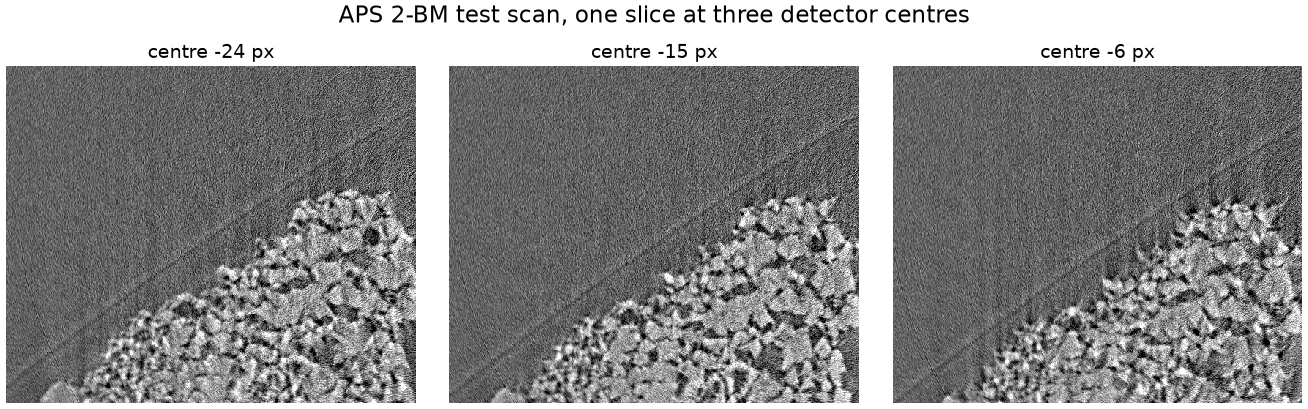
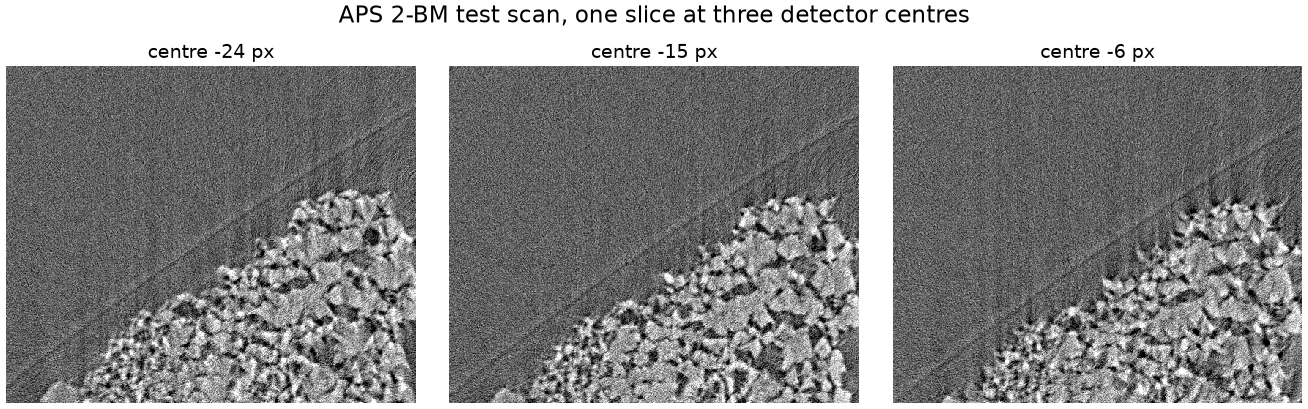
Fix CLI problems found in review: slow previews, dry-run watch dirs, misleading numbers
- inspect's slice previews and centre sweep ask for FBP, which makes an axial
  plane on its own; automatic selection chose Fourier inversion for an ordinary
  parallel scan and reconstructed the whole volume once per candidate.
- inspect checks a saved volume's --slice before writing anything, counts its
  slices and the JSON listing among the files --force guards, and writes the
  projection last, so a bad --slice leaves nothing behind.
- --dry-run no longer creates or claims --watch-dir in reconstruct and align.
- inspect prints the grid as nx x ny x nz, as reconstruct --dry-run does.
- The plan header compares device memory with free device memory and gives
  host memory separately, instead of adding them.
- --preview creates its folder; tomojax --help shows [options]; a code fence
  in docs/lab-ct.md is closed; the centre-sweep figure uses FBP like inspect.

The cli line ratchet rises by 17 for these fixes and their checks.

diff --git a/src/tomojax/cli/_previews.py b/src/tomojax/cli/_previews.py
@@ -137,9 +137,19 @@ def _picture(image: np.ndarray, label: str) -> Image.Image:
     return _images.labelled(_images.to_uint8(shown, _images.limits(shown)), label)
 
 
-def destinations(directory: Path, names: Sequence[str]) -> list[Path]:
+def destinations(
+    directory: Path,
+    wanted: Sequence[tuple[Axis, int]],
+    centres: Sequence[float],
+    *,
+    projection: bool,
+    listing: bool,
+) -> list[Path]:
     """The files a preview run will write in ``directory``."""
-    return [directory / name for name in names]
+    names = [slice_name(axis, index) for axis, index in dict.fromkeys(wanted)]
+    names += [centre_name(i, len(centres), c) for i, c in enumerate(centres)]
+    extra = {"centre_sweep.png": bool(centres), "projection.png": projection, LISTING: listing}
+    return [directory / name for name in [*names, *(n for n, written in extra.items() if written)]]
 
 
 def slice_name(axis: str, index: int) -> str:
@@ -153,21 +163,24 @@ def centre_name(ordinal: int, count: int, centre: float) -> str:
     return f"centre_{ordinal:0{width}d}_{centre:+.2f}px.png"
 
 
-def write_saved_slices(
-    path: Path, directory: Path, requests: Sequence[tuple[Axis, int]] | None, out: Previews
-) -> None:
-    """Read and write planes of a saved reconstruction (its central planes by default)."""
+def saved_requests(
+    path: Path, requests: Sequence[tuple[Axis, int]] | None
+) -> list[tuple[Axis, int]]:
+    """The planes of a saved reconstruction to show (its central planes by default), checked."""
     order, shape = _saved_shape(path)
     sizes = dict(zip(order, shape, strict=True))
-    central: list[tuple[Axis, int]] = [
-        ("z", sizes["z"] // 2),
-        ("y", sizes["y"] // 2),
-        ("x", sizes["x"] // 2),
-    ]
+    central: list[tuple[Axis, int]] = [(axis, sizes[axis] // 2) for axis in ("z", "y", "x")]
     wanted = list(requests or central)
     for axis, index in wanted:
         if not 0 <= index < sizes[axis]:
             raise ValueError(f"--slice {axis}={index} is past the volume's {sizes[axis]} planes")
+    return wanted
+
+
+def write_saved_slices(
+    path: Path, directory: Path, wanted: Sequence[tuple[Axis, int]], out: Previews
+) -> None:
+    """Read and write the ``wanted`` planes of a saved reconstruction."""
     for axis, index in dict.fromkeys(wanted):
         name = slice_name(axis, index)
         plane = saved_plane(path, axis, index)
@@ -180,16 +193,14 @@ def write_saved_slices(
 
 
 def write_scan_slices(
-    scan: tj.Scan, directory: Path, requests: Sequence[tuple[Axis, int]] | None, out: Previews
+    scan: tj.Scan, directory: Path, wanted: Sequence[tuple[Axis, int]], out: Previews
 ) -> None:
-    """Reconstruct the requested planes of a scan (its central z plane by default)."""
+    """Reconstruct the ``wanted`` planes of a scan by FBP, which makes an axial plane alone."""
     from tomojax import interactive
     from tomojax.cli._results import unit_of
     from tomojax.core.registration import registered_plane, volume_axes
 
-    central: list[tuple[Axis, int]] = [("z", scan.grid.nz // 2)]
-    wanted = list(requests or central)
-    plan = interactive.plan_planes(scan, wanted)
+    plan = interactive.plan_planes(scan, wanted, method="fbp")
     if plan.full is not None:
         progress.note("info", "slice previews: one full reconstruction makes every plane")
     resolved = plan.full or plan.plans[0]
@@ -225,7 +236,7 @@ def write_sweep(
     from tomojax.cli._results import unit_of
 
     axis, index = plane or ("z", scan.grid.nz // 2)
-    sweep = interactive.resolve_sweep(scan, axis, index, centres)
+    sweep = interactive.resolve_sweep(scan, axis, index, centres, method="fbp")
     count, du = len(centres), scan.detector.du
     unit = unit_of(scan)
     shown_unit = "scan units" if unit == "scan_length" else unit
@@ -298,6 +309,7 @@ __all__ = [
     "parse_slice",
     "projection_image",
     "saved_plane",
+    "saved_requests",
     "slice_name",
     "write_saved_slices",
     "write_scan_slices",

diff --git a/src/tomojax/cli/inspect.py b/src/tomojax/cli/inspect.py
@@ -138,6 +138,7 @@ def _make_previews(
     slices: list[tuple[pv.Axis, int]] | None,
     centres: tuple[float, ...] | None,
     force: bool,
+    listing: bool,
 ) -> pv.Previews:
     import tomojax as tj
     from tomojax._loading import is_raw_input
@@ -156,35 +157,34 @@ def _make_previews(
         )
     scan = None if frameless or raw or (saved and centres is None) else tj.load(path)
     projection = pv.projection_image(path)
-    names = [] if projection is None else ["projection.png"]
-    if scan is not None and not saved:
-        wanted = slices or [("z", scan.grid.nz // 2)]
-        names += [pv.slice_name(axis, index) for axis, index in dict.fromkeys(wanted)]
-    if scan is not None and centres is not None:
-        names += [pv.centre_name(i, len(centres), c) for i, c in enumerate(centres)]
-        names.append("centre_sweep.png")
+    if saved:
+        wanted = pv.saved_requests(path, slices)
+    else:
+        wanted = [] if scan is None else slices or [("z", scan.grid.nz // 2)]
+    has = {"projection": projection is not None, "listing": listing}
+    paths = pv.destinations(directory, wanted, centres or (), **has)
     try:
-        check_destinations({path.resolve()}, pv.destinations(directory, names), force=force)
+        check_destinations({path.resolve()}, paths, force=force)
     except FileExistsError as exc:
         parser.fail(str(exc), hint="pass --force to replace the previews")
     directory.mkdir(parents=True, exist_ok=True)
-    if projection is not None:
+    if saved:
+        pv.write_saved_slices(path, directory, wanted, out)
+    elif raw:
+        out.notes.append("raw frames: tomojax correct makes a scan whose slices can be previewed")
+    else:
+        assert scan is not None
+        pv.write_scan_slices(scan, directory, wanted, out)
+    if scan is not None and centres is not None:
+        plane = slices[0] if slices else None
+        pv.write_sweep(scan, path, directory, centres, plane, out)
+    if projection is not None:  # last, so a bad --slice leaves nothing that needs --force
         from tomojax.cli import _images
 
         image = _images.labelled(
             _images.to_uint8(projection, _images.limits(projection)), "central projection"
         )
         out.files["projection.png"] = str(_images.save_png(image, directory / "projection.png"))
-    if saved:
-        pv.write_saved_slices(path, directory, slices, out)
-    elif raw:
-        out.notes.append("raw frames: tomojax correct makes a scan whose slices can be previewed")
-    else:
-        assert scan is not None
-        pv.write_scan_slices(scan, directory, slices, out)
-    if scan is not None and centres is not None:
-        plane = slices[0] if slices else None
-        pv.write_sweep(scan, path, directory, centres, plane, out)
     return out
 
 
@@ -225,6 +225,7 @@ def main(argv: Sequence[str] | None = None) -> int:
                     slices=slices,
                     centres=centres,
                     force=cast("bool", args.force),
+                    listing=args.progress == "json",
                 )
             except (OSError, ValueError, KeyError) as exc:
                 preview_error = str(exc).strip("'\"")

diff --git a/tests/test_inspect_previews.py b/tests/test_inspect_previews.py
@@ -288,3 +288,38 @@ def test_a_scan_previews_its_reconstructed_central_slice(tmp_path, capsys):
     report = _inspect_json(capsys, str(path), "--preview-dir", str(directory))
     assert sorted(report["previews"]) == ["projection.png", "slice_z_4.png"]
     assert report["valid"] is True
+
+
+def test_a_parallel_scan_previews_and_sweeps_without_a_full_solve(tmp_path, capsys, monkeypatch):
+    def full_solve(plan, **kwargs):
+        raise AssertionError(f"{plan.method} reconstructed the whole volume for one plane")
+
+    monkeypatch.setattr(interactive, "reconstruct_resolved", full_solve)
+    path, directory = tmp_path / "scan.nxs", tmp_path / "pv"
+    tj.save(path, _scan())
+    argv = ["--preview-dir", str(directory), "--centres", "-1,0,1", "--slice", "z=4"]
+    report = _inspect_json(capsys, str(path), *argv)
+    assert "slice_z_4.png" in report["previews"] and len(report["sweep"]) == 3
+
+
+def test_a_bad_slice_writes_nothing_and_a_rerun_needs_force(tmp_path, capsys):
+    scan, directory = tmp_path / "scan.nxs", tmp_path / "pv"
+    tj.save(scan, _scan())
+    assert main(["inspect", str(scan), "--preview-dir", str(directory), "--slice", "z=99"]) == 1
+    assert not list(directory.glob("*.png"))
+    assert main(["inspect", str(scan), "--preview-dir", str(directory), "--slice", "z=4"]) == 0
+    recon = tmp_path / "recon.nxs"
+    assert main(["reconstruct", str(scan), "-o", str(recon), "--progress", "none"]) == 0
+    saved = tmp_path / "saved"
+    assert main(["inspect", str(recon), "--preview-dir", str(saved)]) == 0
+    capsys.readouterr()
+    with pytest.raises(SystemExit) as error:
+        main(["inspect", str(recon), "--preview-dir", str(saved)])
+    assert error.value.code == 2 and "slice_z_4.png" in capsys.readouterr().err
+
+
+def test_the_report_gives_the_grid_as_nx_ny_nz(tmp_path, capsys):
+    path = tmp_path / "scan.nxs"
+    tj.save(path, _scan())
+    assert main(["inspect", str(path)]) == 0
+    assert "for 16 x 16 x 8 voxels" in capsys.readouterr().out

diff --git a/tests/test_cli_plans.py b/tests/test_cli_plans.py
@@ -9,6 +9,7 @@ import pytest
 
 import tomojax as tj
 from tomojax import progress
+from tomojax.cli._plan_view import plan_header, plan_text  # check-public-imports: allow-private
 from tomojax.cli.main import main
 from tomojax.wire.resources import Placement, Snapshot
 
@@ -24,7 +25,6 @@ def scan_path(tmp_path_factory):
 
 def test_plan_text_names_the_method_grid_and_estimated_memory(scan_path):
     from tomojax._planning import resolve_reconstruction
-    from tomojax.cli._plan_view import plan_text  # check-public-imports: allow-private
     from tomojax.cli._plans import plan_product  # check-public-imports: allow-private
 
     scan = tj.load(scan_path)
@@ -46,6 +46,23 @@ def test_plan_text_names_the_method_grid_and_estimated_memory(scan_path):
         "available unknown"
     )
     assert plan_product(scan, work).method == "fista"
+
+
+def test_the_header_compares_device_memory_with_device_memory(scan_path):
+    from tomojax._planning import resolve_reconstruction
+
+    scan = tj.load(scan_path)
+    work = resolve_reconstruction(scan, "fbp")
+    gpu = Snapshot(0, "gpu:0", "jax", None, None, 8 * 2**30)
+    slabbed = Placement(("gpu:0",), "slabbed", 16 * 2**30, 2 * 2**30, (gpu,))
+    assert plan_header("reconstruct", scan, work, slabbed).endswith(
+        "slabbed on gpu:0, 2.0 GiB of 8.0 GiB on the device, 16.0 GiB on the host"
+    )
+    cpu = Snapshot(0, "cpu:0", "host", None, None, 8 * 2**30)
+    resident = Placement(("cpu:0",), "resident", 3 * 2**30, 0, (cpu,))
+    assert plan_header("reconstruct", scan, work, resident).endswith(
+        "resident on cpu:0, 3.0 GiB of 8.0 GiB"
+    )
 
 
 def _count_resolutions(monkeypatch):

diff --git a/tests/test_cli_watch.py b/tests/test_cli_watch.py
@@ -50,6 +50,12 @@ def test_planes_get_square_physical_pixels_and_sinograms_keep_their_samples(imag
     assert images.display_shape((64, 32), plane, 2048) == (256, 64)
 
 
+def test_an_image_creates_its_folder(tmp_path, images):
+    path = tmp_path / "previews" / "band.png"
+    images.save_png(images.Image.new("L", (4, 4)), path)
+    assert path.exists()
+
+
 def test_shared_limits_and_non_finite_values(images):
     bright, dim = np.full((4, 4), 10.0), np.full((4, 4), 1.0)
     low, high = images.limits(bright, dim)
@@ -124,6 +130,13 @@ def test_no_update_means_no_image_and_a_status_that_says_so(tmp_path, scan):
     assert main([*argv, "--watch-dir", str(watch)]) == 0
     assert not list(watch.glob("*.png"))
     assert _status(watch)["status"] == "done, no preview"
+
+
+@pytest.mark.parametrize("command", ["reconstruct", "align"])
+def test_a_dry_run_leaves_the_watch_directory_alone(tmp_path, scan, command):
+    watch = tmp_path / "watch"
+    assert main([command, str(scan), "--dry-run", "--watch-dir", str(watch)]) == 0
+    assert not watch.exists()
 
 
 def test_reuse_removes_the_earlier_images(tmp_path, scan):

diff --git a/src/tomojax/cli/_plan_view.py b/src/tomojax/cli/_plan_view.py
@@ -142,9 +142,11 @@ def plan_header(command: str, scan: tj.Scan, work: Work, placement: Placement) -
         bins = ", ".join(str(level.binning) for level in work.schedule.levels)
         what = f"joint fit at binning {bins}"
     devices = ", ".join(placement.devices)
-    needed = size(placement.host_bytes + placement.device_bytes)
-    free = _available(placement)
-    return f"{command}: {what} · {placement.strategy} on {devices}, {needed} of {free}"
+    free, host, device = _available(placement), placement.host_bytes, placement.device_bytes
+    memory = f"{size(device)} of {free} on the device, {size(host)} on the host"
+    if all(s.scope == "host" for s in placement.snapshot):  # one memory holds both
+        memory = f"{size(host + device)} of {free}"
+    return f"{command}: {what} · {placement.strategy} on {devices}, {memory}"
 
 
 __all__ = [

diff --git a/src/tomojax/cli/main.py b/src/tomojax/cli/main.py
@@ -74,8 +74,8 @@ def _build_parser() -> ProgressParser:
         epilog=(
             "Command forms:\n"
             "  inspect INPUT [--preview-dir DIR] [--json]\n"
-            "  correct | align | reconstruct | export  INPUT -o OUTPUT [options]\n"
-            "  simulate -o OUTPUT [options]\n  serve\n\n"
+            "  correct | align | reconstruct | export  INPUT -o OUTPUT \\[options]\n"
+            "  simulate -o OUTPUT \\[options]\n  serve\n\n"
             "Commands refuse to replace an existing output without --force; "
             "`tomojax <command> --help` describes each one. Exit status: "
             "0 success, 1 failure, 2 usage error, 130 interrupted.\n\n"

diff --git a/src/tomojax/cli/align.py b/src/tomojax/cli/align.py
@@ -337,7 +337,8 @@ def _run(
     outputs = [] if args.dry_run else [args.out, args.manifest]
     check_paths(parser, inputs=[args.data], outputs=outputs, force=args.force)
     related = (args.data, args.out, args.manifest, cast("str | None", metadata["config_path"]))
-    admit_or_exit(parser, watch, force=args.force, related=related)
+    if not args.dry_run:
+        admit_or_exit(parser, watch, force=args.force, related=related)
     progress.check_cancelled()
     scan = tj.load(args.data, apply_poses=args.apply_poses)
     progress.check_cancelled()

diff --git a/src/tomojax/io/_inspection_format.py b/src/tomojax/io/_inspection_format.py
@@ -144,7 +144,7 @@ def _memory_rows(memory: Mapping[str, Any]) -> list[tuple[str, str]]:
     if not memory["feasible"]:
         return [("volume working sets", f"not estimated ({memory['notes']})")]
     modes = memory["modes"]
-    grid = " x ".join(str(n) for n in reversed(memory["reconstruction_grid_shape"]))
+    grid = " x ".join(str(n) for n in memory["reconstruction_grid_shape"])
     sets = ", ".join(
         f"{name} {_size(modes[key]['estimated_working_set_bytes'])}"
         for name, key in (

diff --git a/examples/gallery/centre_sweep.py b/examples/gallery/centre_sweep.py
@@ -42,7 +42,7 @@ def main() -> None:
     )
     args = parser.parse_args()
     scan = tj.load(args.input)
-    sweep = interactive.resolve_sweep(scan, "z", args.plane, args.centres)
+    sweep = interactive.resolve_sweep(scan, "z", args.plane, args.centres, method="fbp")
     row0, row1, column0, column1 = args.region
     crops = [
         np.asarray(plane, np.float32)[row0:row1, column0:column1]

diff --git a/src/tomojax/cli/reconstruct.py b/src/tomojax/cli/reconstruct.py
@@ -375,7 +375,8 @@ def _run(
         run.manifest,
         cast("str | None", metadata["config_path"]),
     )
-    admit_or_exit(parser, watch, force=cast("bool", args.force), related=related)
+    if not args.dry_run:
+        admit_or_exit(parser, watch, force=cast("bool", args.force), related=related)
     progress.check_cancelled()
 
     scan = tj.load(run.data, apply_poses=run.apply_poses)

diff --git a/src/tomojax/cli/_images.py b/src/tomojax/cli/_images.py
@@ -189,6 +189,7 @@ def pose_plot(
 def save_png(image: Image.Image, path: Path) -> Path:
     """Write ``image`` to ``path`` through ``.<name>.tmp`` beside it, moved on once whole."""
     temporary = path.with_name(f".{path.name}.tmp")
+    path.parent.mkdir(parents=True, exist_ok=True)
     try:
         with temporary.open("wb") as stream:
             image.save(stream, format="PNG")
